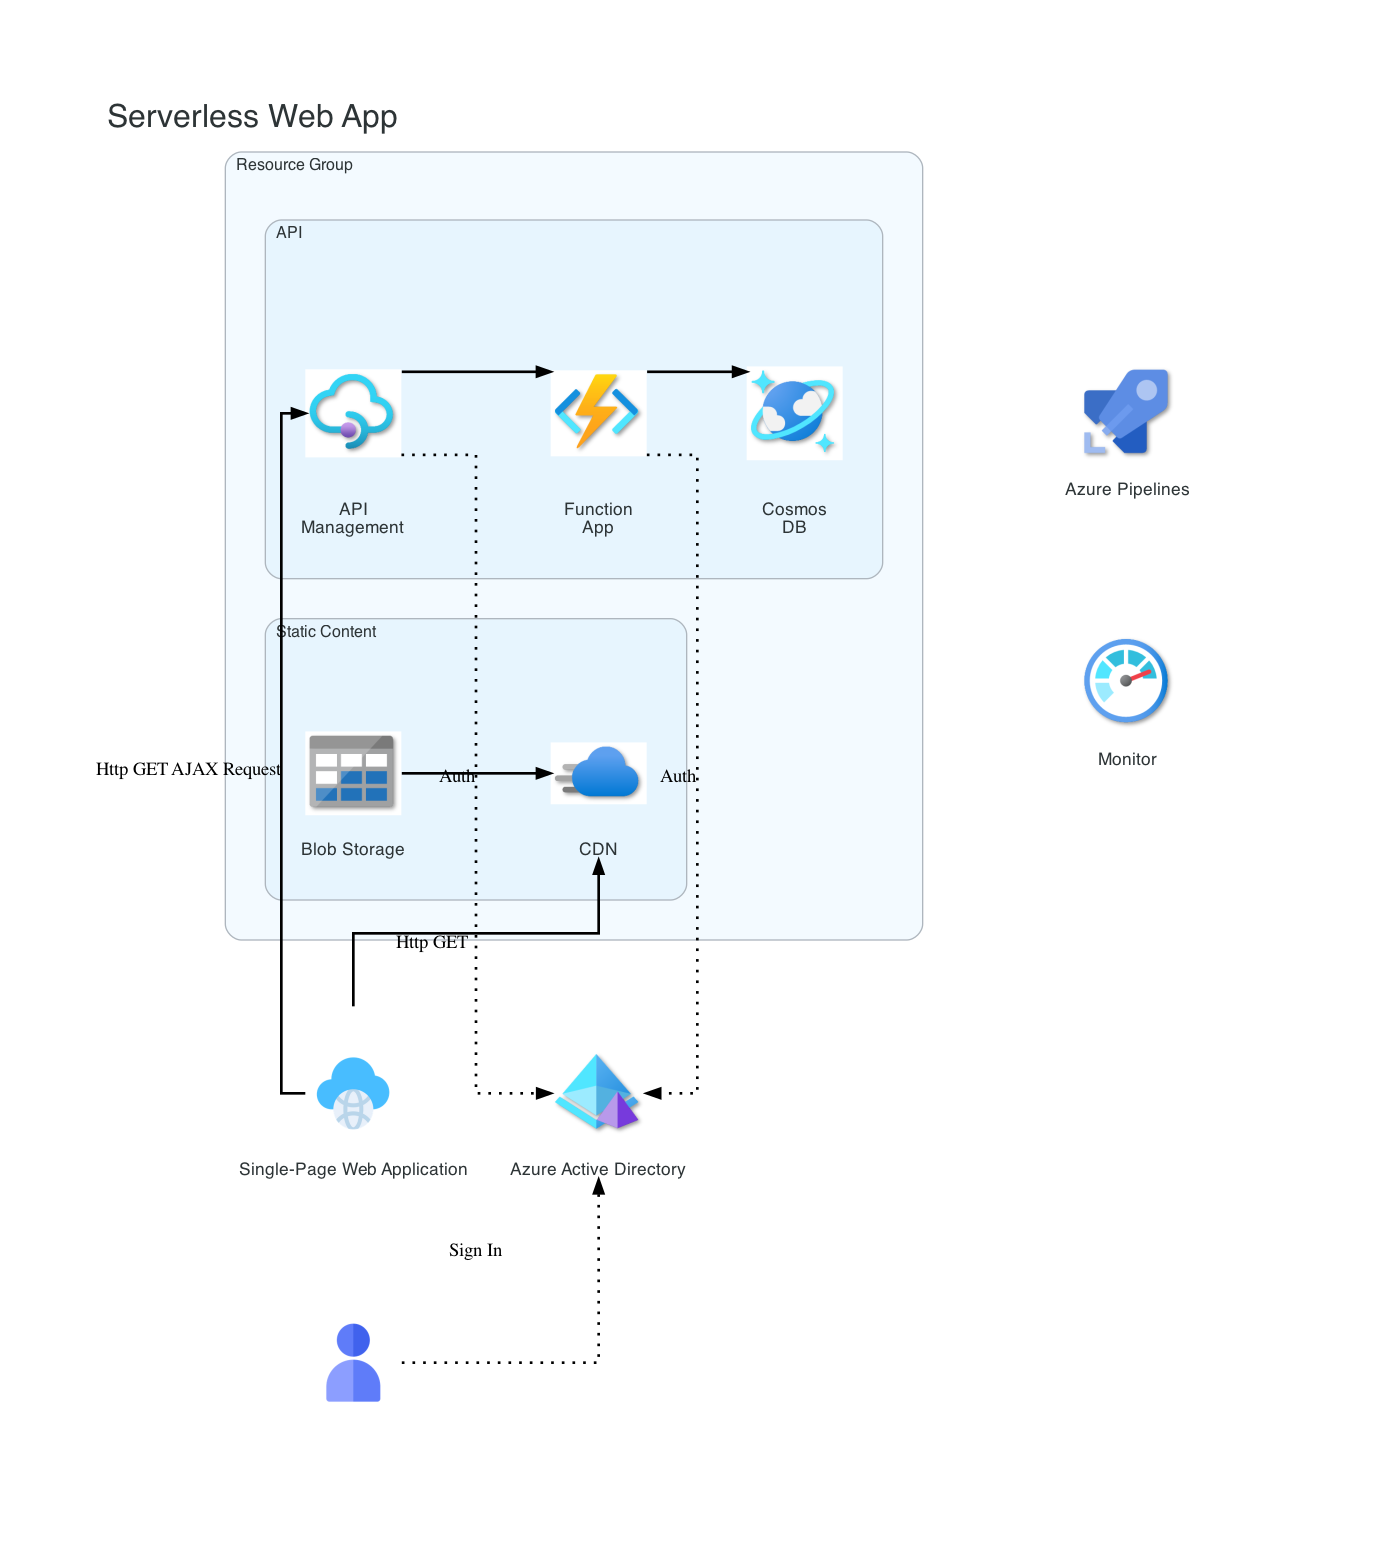
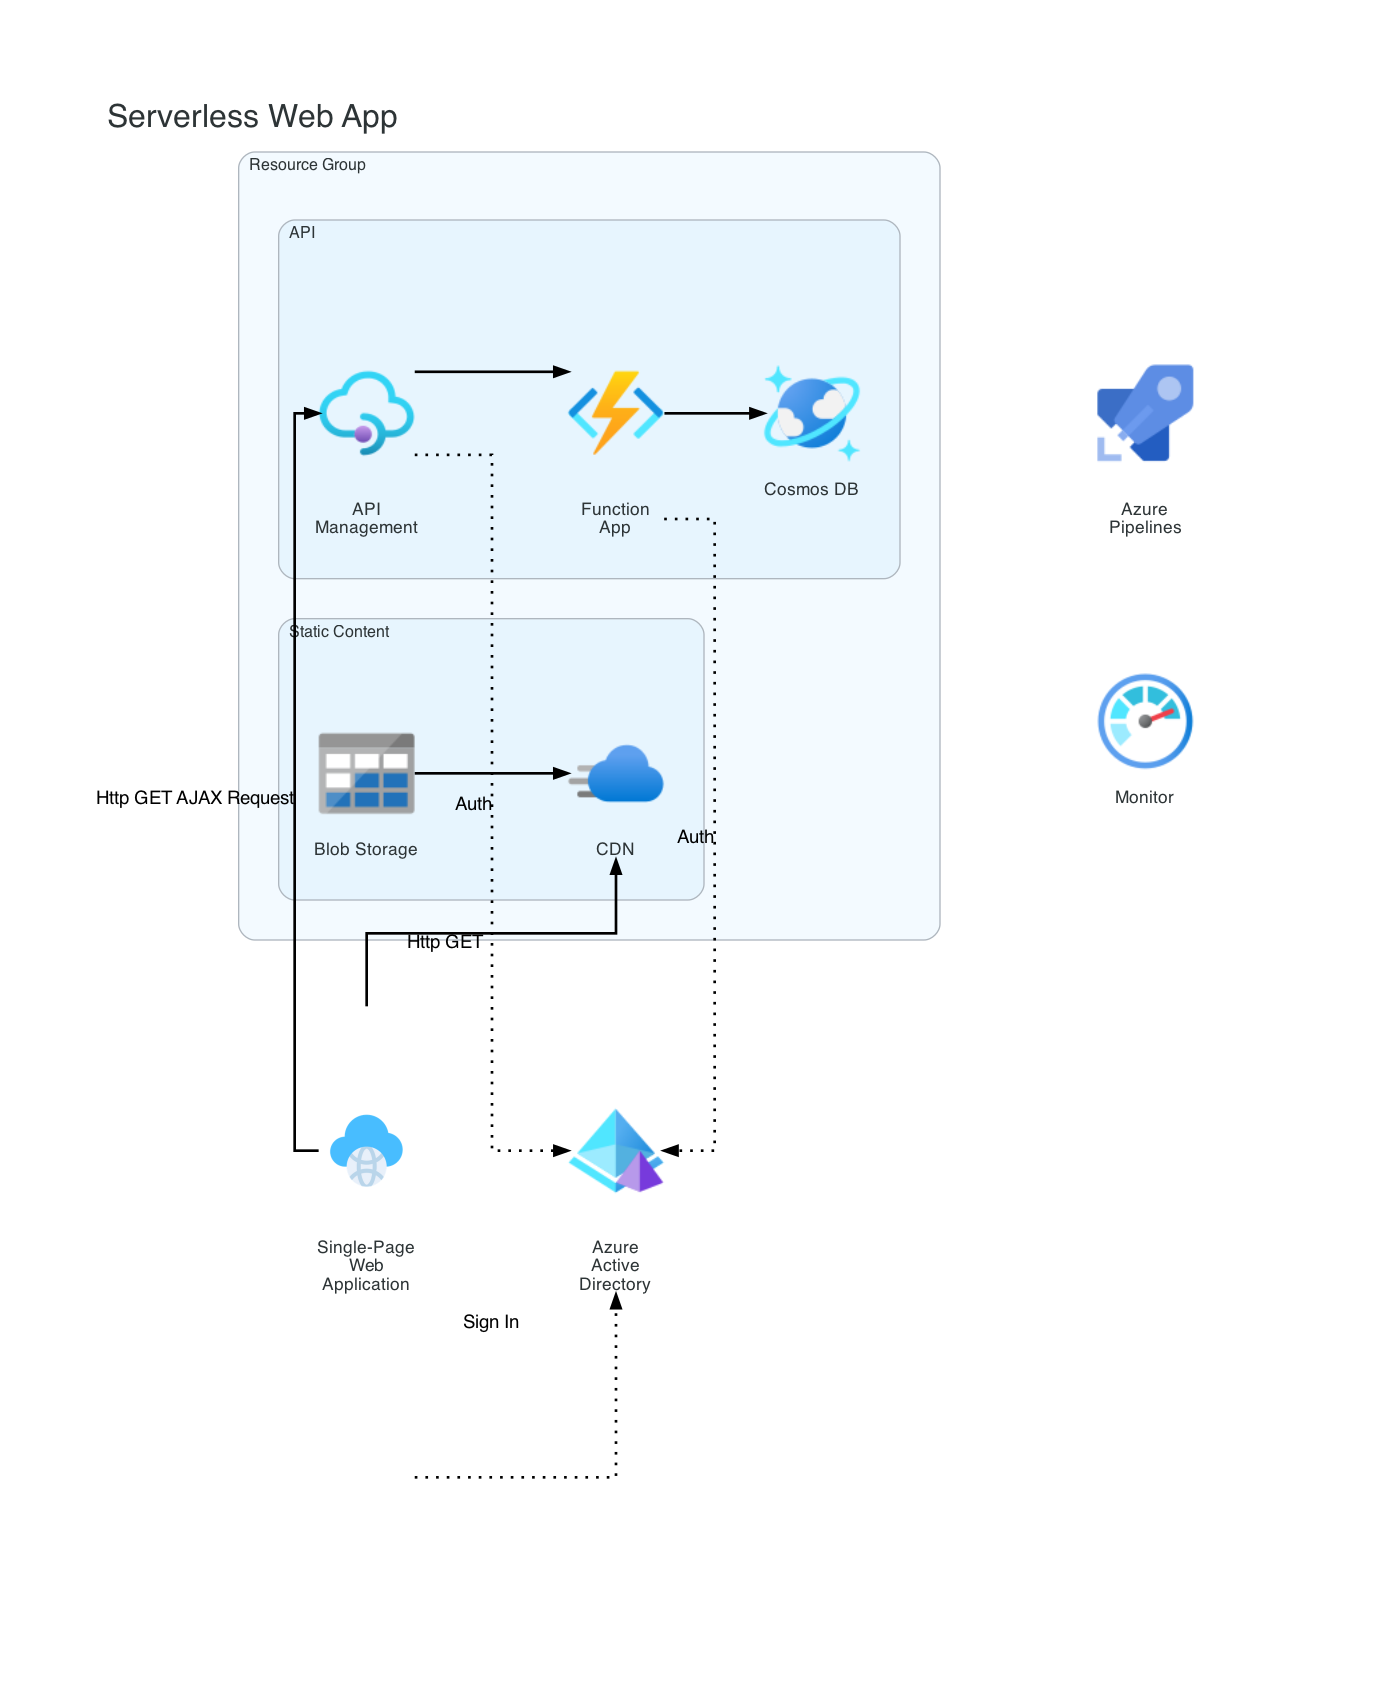
updated serverless web app use case

diff --git a/examples/serverless-web-app.py b/examples/serverless-web-app.py
@@ -1,7 +1,7 @@
 from architectures.core import Graph, Cluster, Group, Node, Edge, Flow
 from architectures.themes import Clean
 
-from architectures.providers.azure.generic import User, Internet
+from architectures.providers.azure.general import Internet
 from architectures.providers.azure.identity import AzureActiveDirectoryDomainServices
 from architectures.providers.azure.management import ApiManagementService, AzureMonitor
 from architectures.providers.azure.application import FunctionApp
@@ -32,7 +32,7 @@ with Graph('Serverless Web App', theme=theme):
         monitor = AzureMonitor("Monitor")
 
     with Group():
-        user = User("")
+        user = Node("")
         azure_ad = AzureActiveDirectoryDomainServices("Azure Active Directory")
         internet = Internet("Single-Page Web Application")
 
